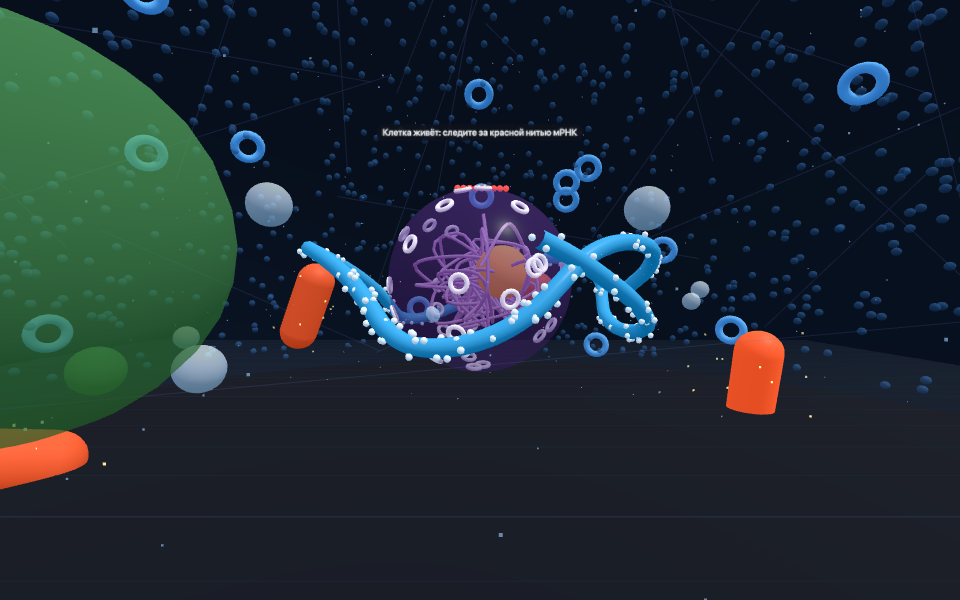
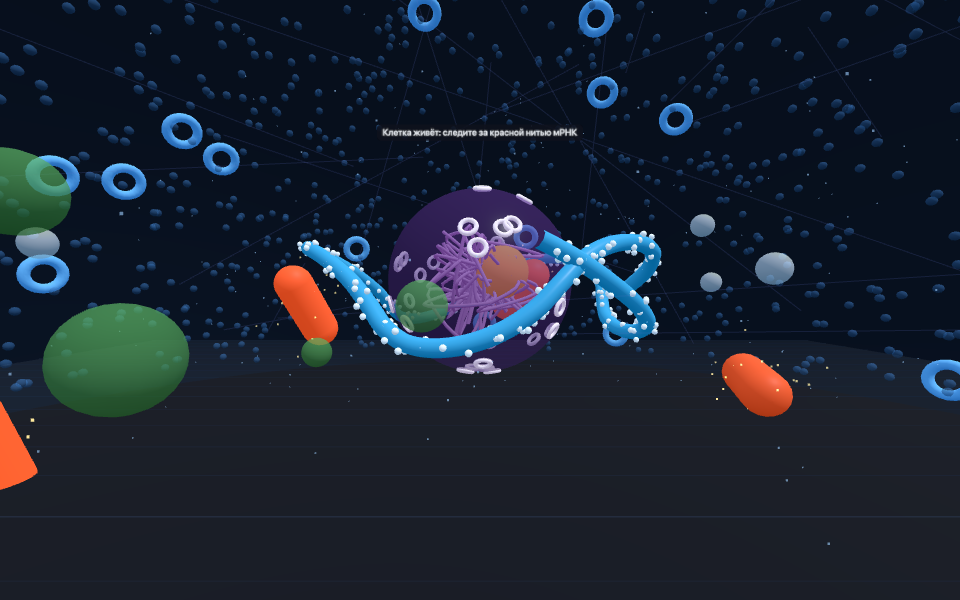
feat(labs): на http вход в VR не предлагается, вместо него — честная заметка
WebXR живёт только в защищённом контексте, а боевой стенд отдаётся по http:
кнопка «Войти в VR» и «В VR» на карточках теперь появляются, только когда
браузер действительно умеет immersive-vr и страница защищена. Иначе — заметка
о том, что вход в очках появится с HTTPS. Сцены и «Создать лабораторию»
(«Скоро») доступны в любом случае.

diff --git a/src/components/labs/LabsView.tsx b/src/components/labs/LabsView.tsx
@@ -8,6 +8,12 @@ import { IconLab, IconPlay, IconPlus, IconVr } from '@/components/icons';
 export default function LabsView({ labs }: { labs: LabEntry[] }) {
   const [vrFor, setVrFor] = useState<LabEntry | null>(null);
   const [soon, setSoon] = useState(false);
+  // WebXR живёт только в защищённом контексте (HTTPS или localhost). Пока боевой
+  // стенд отдаётся по http, вход в VR предлагать нечестно — прячем его и говорим,
+  // чего не хватает. null — «ещё не знаем»: на сервере isSecureContext недоступен,
+  // и без этого состояния подсказка мигала бы при гидрации.
+  const [secure, setSecure] = useState<boolean | null>(null);
+  useEffect(() => { setSecure(window.isSecureContext); }, []);
   return (
     <div className="library labs">
       <div className="library-head">
@@ -17,9 +23,15 @@ export default function LabsView({ labs }: { labs: LabEntry[] }) {
         </button>
       </div>
       <p className="muted labs-lead">
-        Трёхмерные сцены, в которые можно войти с ноутбука мышью или в очках Quest.
+        Трёхмерные сцены: открываются в браузере и рассматриваются мышью.
         Наведите на предмет — появится подпись; предметы берутся руками.
       </p>
+      {secure === false && (
+        <p className="muted labs-note">
+          Вход в очках Quest появится, когда сайт откроется по HTTPS: WebXR работает
+          только на защищённом соединении. Сами сцены доступны уже сейчас.
+        </p>
+      )}
       <div className="cards">
         {labs.map((lab) => (
           <article key={lab.slug} className="sim-card lab-card">
@@ -36,9 +48,11 @@ export default function LabsView({ labs }: { labs: LabEntry[] }) {
                 <a className="btn btn-sm" href={labUrl(lab.slug)} target="_blank" rel="noopener">
                   <IconPlay size={15} />Открыть
                 </a>
-                <button type="button" className="btn btn-sm btn-ghost" onClick={() => setVrFor(lab)}>
-                  <IconVr size={16} />В VR
-                </button>
+                {secure && (
+                  <button type="button" className="btn btn-sm btn-ghost" onClick={() => setVrFor(lab)}>
+                    <IconVr size={16} />В VR
+                  </button>
+                )}
               </div>
             </div>
           </article>

diff --git a/public/labs/common.js b/public/labs/common.js
@@ -405,18 +405,25 @@ function buildHud({ title, hint, stations, renderer }) {
   const stBox = root.querySelector('.hud-stations');
   const actions = root.querySelector('.hud-actions');
   const vrBox = root.querySelector('.hud-vr');
-  const vrBtn = VRButton.createButton(renderer);
-  vrBtn.removeAttribute('style');
-  vrBtn.className = 'hud-vrbtn';
-  vrBox.appendChild(vrBtn);
-  // VRButton пишет по-английски; переводим, не мешая ему обновлять текст.
-  const ru = { 'ENTER VR': 'Войти в VR', 'EXIT VR': 'Выйти из VR', 'VR NOT SUPPORTED': 'VR недоступен',
-    'VR NOT ALLOWED': 'VR запрещён', 'WEBXR NOT AVAILABLE': 'Нужен HTTPS для VR', 'WEBXR NEEDS HTTPS': 'Нужен HTTPS для VR' };
-  new MutationObserver(() => {
-    const t = vrBtn.textContent.trim();
-    if (ru[t]) vrBtn.textContent = ru[t];
-  }).observe(vrBtn, { childList: true, characterData: true, subtree: true });
-  setTimeout(() => { const t = vrBtn.textContent.trim(); if (ru[t]) vrBtn.textContent = ru[t]; }, 300);
+  // Кнопку входа в VR добавляем, только если браузер действительно умеет immersive-vr.
+  // По http (боевой стенд без сертификата) WebXR недоступен, и вечная надпись
+  // «VR недоступен» читалась бы как поломка, а не как честное состояние. Как только
+  // сайт откроется по HTTPS, кнопка появится сама — правки кода не нужно.
+  navigator.xr?.isSessionSupported?.('immersive-vr').then((ok) => {
+    if (!ok) return;
+    const vrBtn = VRButton.createButton(renderer);
+    vrBtn.removeAttribute('style');
+    vrBtn.className = 'hud-vrbtn';
+    vrBox.appendChild(vrBtn);
+    // VRButton пишет по-английски; переводим, не мешая ему обновлять текст.
+    const ru = { 'ENTER VR': 'Войти в VR', 'EXIT VR': 'Выйти из VR', 'VR NOT SUPPORTED': 'VR недоступен',
+      'VR NOT ALLOWED': 'VR запрещён', 'WEBXR NOT AVAILABLE': 'Нужен HTTPS для VR', 'WEBXR NEEDS HTTPS': 'Нужен HTTPS для VR' };
+    new MutationObserver(() => {
+      const t = vrBtn.textContent.trim();
+      if (ru[t]) vrBtn.textContent = ru[t];
+    }).observe(vrBtn, { childList: true, characterData: true, subtree: true });
+    setTimeout(() => { const t = vrBtn.textContent.trim(); if (ru[t]) vrBtn.textContent = ru[t]; }, 300);
+  }).catch(() => {});
 
   const hud = { root, current: null, onStation: null,
     markStation(st) {

diff --git a/e2e/labs.spec.ts b/e2e/labs.spec.ts
@@ -20,3 +20,18 @@ test('список лабораторий закрыт для гостя', async
   await page.goto('/labs');
   await expect(page).toHaveURL(/\/login/);
 });
+
+test('в разделе четыре карточки, а «Создать лабораторию» отвечает «Скоро»', async ({ page }) => {
+  await page.request.post('/api/auth/register',
+    { data: { email: `labs-${Date.now()}@example.com`, password: 'labs-demo-pass-123' } });
+  await page.goto('/labs');
+  await expect(page.locator('.lab-card')).toHaveCount(4);
+  await expect(page.getByRole('heading', { name: 'Внутри клетки' })).toBeVisible();
+
+  await page.getByRole('button', { name: 'Создать лабораторию' }).click();
+  const dialog = page.getByRole('dialog');
+  await expect(dialog).toContainText('Скоро');
+  await expect(dialog).toContainText('в работе');
+  await dialog.getByRole('button', { name: 'Понятно' }).click();
+  await expect(dialog).toHaveCount(0);
+});

diff --git a/src/app/globals.css b/src/app/globals.css
@@ -826,3 +826,5 @@ body:hover .present-exit { opacity: .85; }
 .vr-steps { margin: 4px 0 0; padding-left: 20px; color: var(--text-2); font-size: 14px; line-height: 1.6; }
 .vr-qr { display: flex; justify-content: center; padding: 10px; background: #fff; border-radius: var(--r-sm); }
 .vr-href { display: block; font-family: var(--mono); font-size: 12.5px; color: var(--muted); word-break: break-all; }
+.labs-note { margin: 8px 0 0; max-width: 640px; font-size: 13px; padding: 10px 12px;
+  background: var(--warn-soft); color: var(--warn); border-radius: var(--r-sm); }
